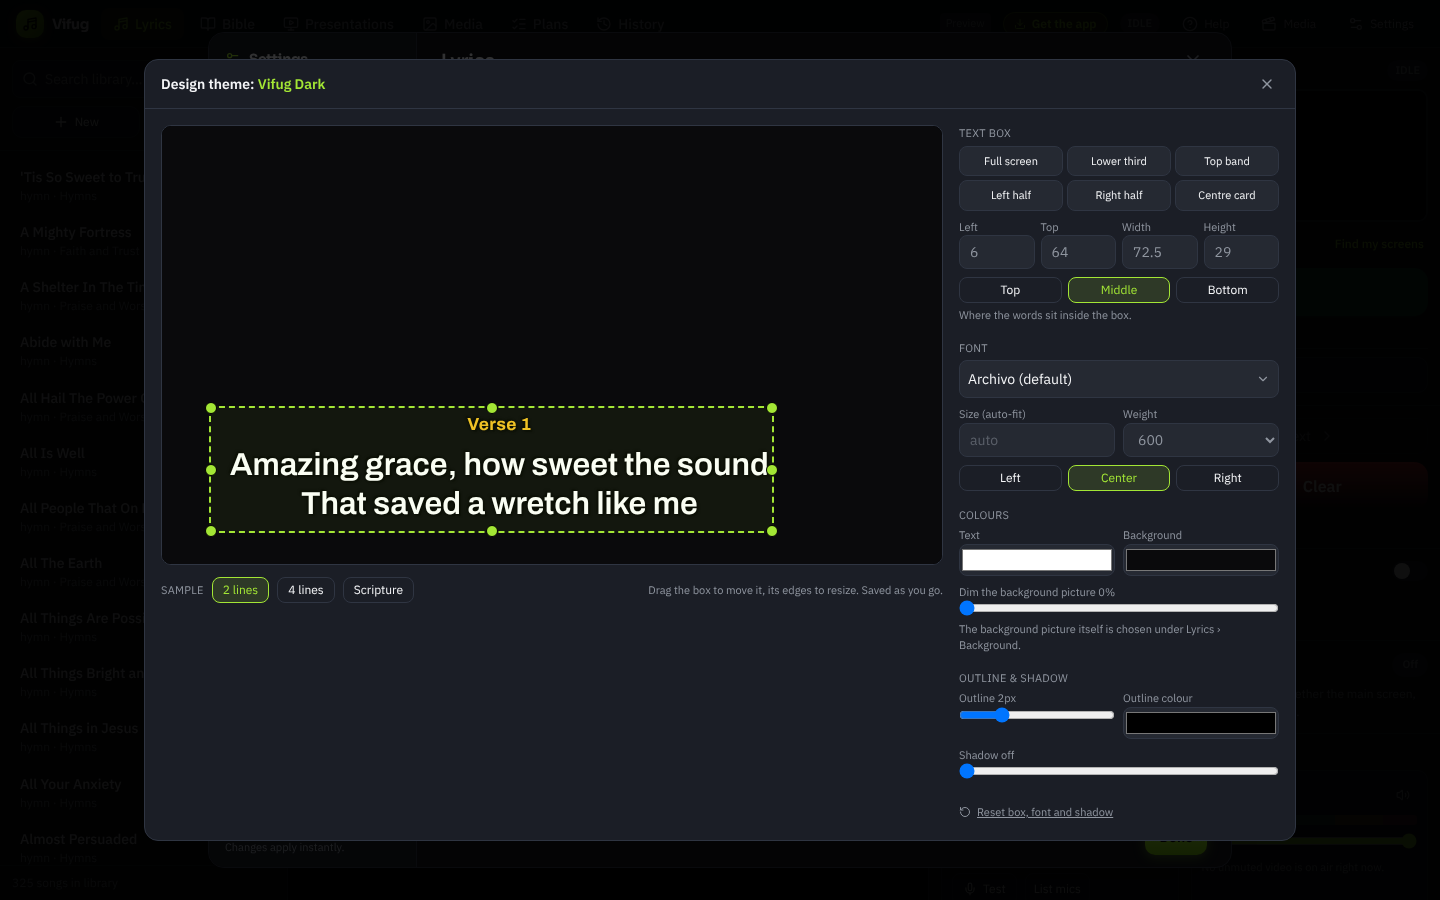
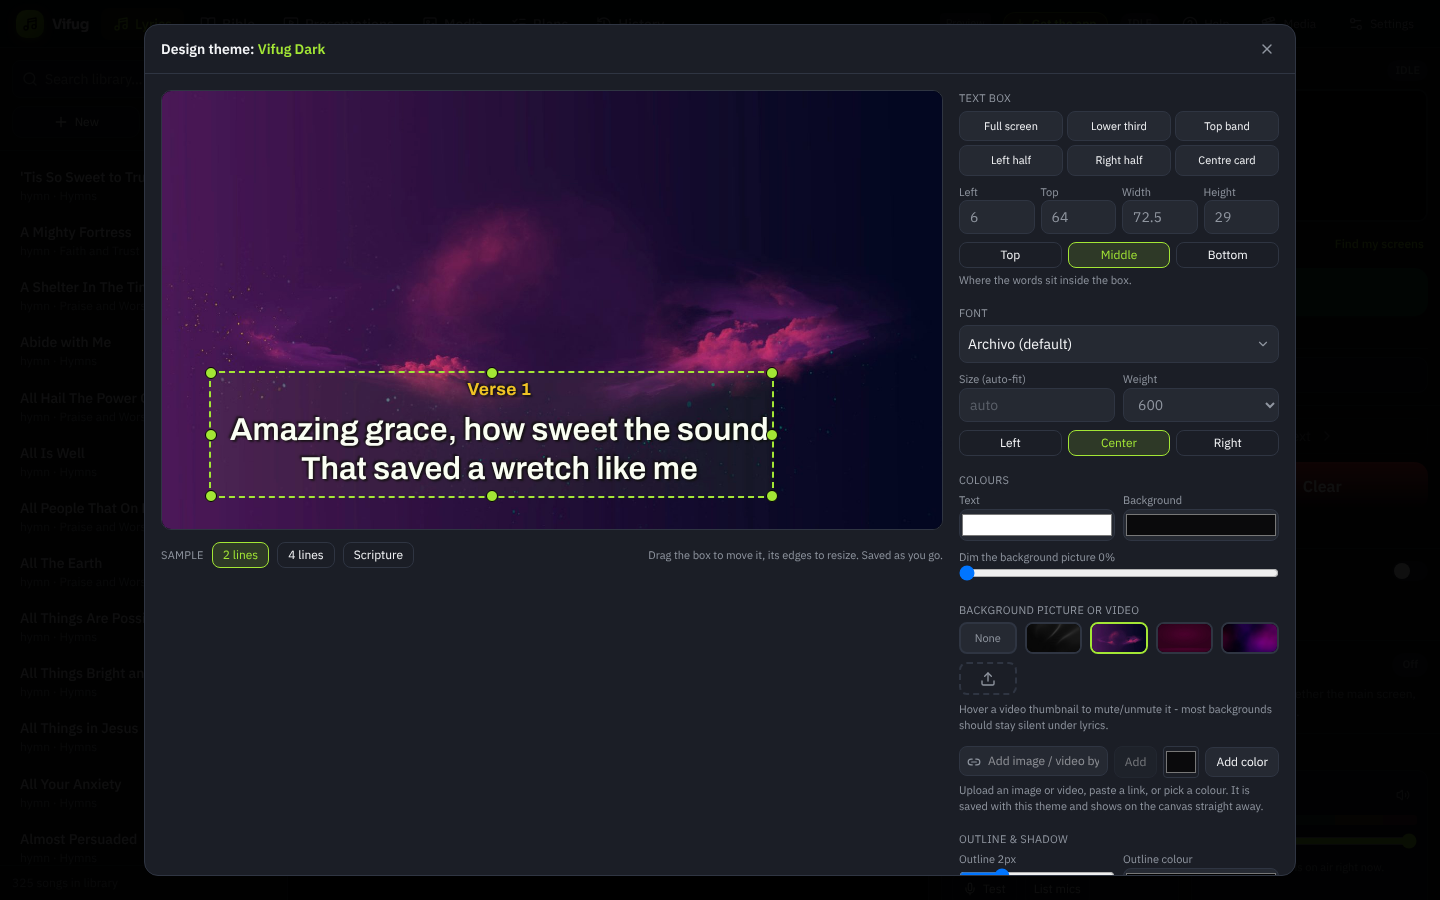
Theme designer: background picture/video picker
Claude-Session: https://claude.ai/code/session_018jfComqq59PMn7j5t4oytk

diff --git a/packages/web/src/web/components/theme-designer.tsx b/packages/web/src/web/components/theme-designer.tsx
@@ -2,6 +2,7 @@ import { useCallback, useEffect, useRef, useState } from "react";
 import { X, RotateCcw } from "lucide-react";
 import { SlideRender } from "./slide-render";
 import { FontPicker } from "./font-picker";
+import { MediaPicker } from "./media-picker";
 import { useDialog } from "../hooks/use-dialog";
 import type { Theme as ThemeRow, ThemeDraft } from "../hooks/use-songs";
 import { themeToLive, parseTextFrame, type LiveState, type LiveTheme, type TextFrame } from "../lib/live-bus";
@@ -78,10 +79,18 @@ export function ThemeDesigner({
   theme,
   patch,
   previewBackground,
+  activeBackgroundId,
+  onPickBackground,
+  mediaDefaults,
   onClose,
 }: {
   theme: ThemeRow;
   patch: (p: ThemeDraft) => void;
+  /** The picture on the live screen right now (null = none). */
+  activeBackgroundId?: string | null;
+  /** Put a picture behind the words on the screen; the theme remembers it too. */
+  onPickBackground?: (id: string | null) => void;
+  mediaDefaults?: { fit?: "cover" | "contain" | "fill"; muted?: boolean };
   /** The picture behind the words on the live screen, so the canvas matches it. */
   previewBackground?: LiveTheme["background"];
   onClose: () => void;
@@ -376,7 +385,22 @@ export function ThemeDesigner({
                 Dim the background picture {row.overlayScrim ?? 0}%
                 <input type="range" min={0} max={90} value={row.overlayScrim ?? 0} onChange={(e) => change({ overlayScrim: Number(e.target.value) })} className="w-full" />
               </label>
-              <p className="text-[11px] text-[var(--v-text-faint)]">The background picture itself is chosen under Lyrics &rsaquo; Background.</p>
+            </section>
+
+            <section>
+              <p className={label}>Background picture or video</p>
+              <MediaPicker
+                activeId={draft.backgroundId !== undefined ? draft.backgroundId : (activeBackgroundId ?? theme.backgroundId ?? null)}
+                onSelect={(id) => {
+                  change({ backgroundId: id });
+                  onPickBackground?.(id);
+                }}
+                defaultFit={mediaDefaults?.fit ?? "cover"}
+                defaultMuted={mediaDefaults?.muted ?? false}
+              />
+              <p className="mt-1 text-[11px] text-[var(--v-text-faint)]">
+                Upload an image or video, paste a link, or pick a colour. It is saved with this theme and shows on the canvas straight away.
+              </p>
             </section>
 
             <section>

diff --git a/docs/guide.html b/docs/guide.html
@@ -438,7 +438,7 @@
         <div class="mini-card">
           <div class="ic"><svg viewBox="0 0 24 24"><polygon points="12 2 15.09 8.26 22 9.27 17 14.14 18.18 21.02 12 17.77 5.82 21.02 7 14.14 2 9.27 8.91 8.26 12 2"/></svg></div>
           <h3>Theme, font & color</h3>
-          <p>Pick a base theme, then override font family, size, weight, alignment and color independently for lyrics, Bible text, and even the translation line. For a ProPresenter-style look, open <b>Settings → Lyrics → Open the visual designer</b>: the slide is shown large with a dashed box where the words sit. Drag the box to move it, drag its edges to resize it (it snaps to the middle and edges), or start from Lower third, Left half, Centre card and more. Font, colours, outline and shadow are beside it, and the slide updates as you go.</p>
+          <p>Pick a base theme, then override font family, size, weight, alignment and color independently for lyrics, Bible text, and even the translation line. For a ProPresenter-style look, open <b>Settings → Lyrics → Open the visual designer</b>: the slide is shown large with a dashed box where the words sit. Drag the box to move it, drag its edges to resize it (it snaps to the middle and edges), or start from Lower third, Left half, Centre card and more. Font, colours, outline and shadow are beside it, and the slide updates as you go. The same panel has a <b>Background picture or video</b> section: pick one from your library, upload an image or video, paste a link, or choose a plain colour, and it appears behind the words on the canvas straight away and is saved with the theme.</p>
         </div>
         <div class="mini-card">
           <div class="ic"><svg viewBox="0 0 24 24"><rect x="3" y="3" width="18" height="18" rx="2"/><circle cx="8.5" cy="8.5" r="1.5"/><path d="m21 15-5-5L5 21"/></svg></div>

diff --git a/packages/web/src/web/components/settings-page.tsx b/packages/web/src/web/components/settings-page.tsx
@@ -552,10 +552,16 @@ function ThemeEditor({
   activeId,
   onActivate,
   previewBackground,
+  activeBackgroundId,
+  onPickBackground,
+  mediaDefaults,
 }: {
   themes: ThemeRow[];
   activeId: string | null;
   onActivate: (id: string) => void;
+  activeBackgroundId?: string | null;
+  onPickBackground?: (id: string | null) => void;
+  mediaDefaults?: { fit?: "cover" | "contain" | "fill"; muted?: boolean };
   /** The picture or colour behind the words on the live screen, so the preview matches it. */
   previewBackground?: LiveTheme["background"];
 }) {
@@ -700,6 +706,9 @@ function ThemeEditor({
             theme={theme}
             patch={patch}
             previewBackground={previewBackground}
+            activeBackgroundId={activeBackgroundId}
+            onPickBackground={onPickBackground}
+            mediaDefaults={mediaDefaults}
             onClose={() => setDesigning(false)}
           />
         )}
@@ -1360,6 +1369,13 @@ function LyricsSection({
         themes={themes}
         activeId={settings?.activeThemeId ?? null}
         previewBackground={previewTheme.background}
+        activeBackgroundId={settings?.activeBackgroundId ?? null}
+        mediaDefaults={{ fit: settings?.mediaDefaults?.fit ?? "cover", muted: !(settings?.mediaDefaults?.videoSound ?? true) }}
+        // A picture chosen while designing is the theme's picture, so it goes on
+        // the screen the same way choosing the theme would put it there.
+        onPickBackground={(id) =>
+          patchSettings({ activeBackgroundId: id, bibleBackgroundId: undefined, presentationBackgroundId: undefined })
+        }
         onActivate={(id) => {
           // A theme that ships with a picture (Violet Haze, Blue Halftone ...)
           // brings it along - choosing the look and then also having to find

diff --git a/CHANGELOG.md b/CHANGELOG.md
@@ -7,7 +7,7 @@ GitHub Release with Windows, macOS and Linux artifacts.
 
 ## [1.28.0] — 2026-11-08
 
-- NEW: **a visual theme designer, like ProPresenter's.** Settings → Lyrics → Open the visual designer shows the slide large with a dashed text box on it. Drag the box to move it and its edges and corners to resize it, snapping to the middle and edges, or start from a preset (Full screen, Lower third, Top band, Left half, Right half, Centre card). Font, size, weight, alignment, where the words sit inside the box, text and background colour, background dimming, outline and drop shadow are beside it, with 2-line, 4-line and Scripture samples, and every change shows at once and is saved on the theme. A theme can now carry its own text box, font and shadow, so a lower-third look or a left-hand column is a theme like any other. The screen's own safe margin still applies on top, so a cropped projector never loses words.
+- NEW: **a visual theme designer, like ProPresenter's.** Settings → Lyrics → Open the visual designer shows the slide large with a dashed text box on it. Drag the box to move it and its edges and corners to resize it, snapping to the middle and edges, or start from a preset (Full screen, Lower third, Top band, Left half, Right half, Centre card). A **Background picture or video** section in the same panel lets you pick an image or video from your library, upload one, paste a link or choose a colour; it shows behind the words on the canvas at once, is saved with the theme and goes on the live screen. Font, size, weight, alignment, where the words sit inside the box, text and background colour, background dimming, outline and drop shadow are beside it, with 2-line, 4-line and Scripture samples, and every change shows at once and is saved on the theme. A theme can now carry its own text box, font and shadow, so a lower-third look or a left-hand column is a theme like any other. The screen's own safe margin still applies on top, so a cropped projector never loses words.
 - CHANGE: **the welcome screen is now one question per page.** Instead of everything on one crowded screen, first-run setup walks through what Vifug is for, how many lines of a song to show, and (for Church) whether to keep the included songs, with a progress indicator and Back / Next. Media & entertainment and Presentations only skip the song-library page and finish with Get started.
 - NEW: **send a phone camera (or a computer's screen) to Vifug over Wi-Fi.** In the capture picker, "Phone camera or screen cast over Wi-Fi" shows a QR code. Scan it with a phone, tap Send my camera (front or back, with or without sound), and **Phone / remote camera** becomes a capture source that works like any camera: preview it, shape it, put it over a lyric, beside scripture, or full screen. From a computer, the same page can Share this screen. The picture goes straight between the devices over WebRTC and each Vifug screen connects to the phone itself, so the projector does not depend on the operator window. Only the handshake goes through the server, and a phone camera needs a secure (https) page, so pairing uses app.vifug.com (a church running its own server can point pairing at it with the browser setting `vifug:cast-origin`). The code is remembered so the phone's link keeps working week to week, and "New code" replaces it; anyone who has the code could send a picture, so keep it to yourselves. Two public STUN servers help the devices find each other; a network that blocks direct device-to-device traffic (some guest Wi-Fi) will not connect.
 - NEW: **add your own Bible version.** Settings → Bible → Add your own Bible version imports a translation from a file: plain text with one verse a line ("John 3:16 For God so loved..."), CSV or TSV, JSON (an array of book / chapter / verse / text, or a nested book > chapter > verse object), or OSIS, USFX and Zefania XML. Book names, codes, OSIS ids and numbers are all understood, lines that cannot be read are counted and reported, and a file with only some books works (the rest are listed as missing). You name it and give it a short name, and it then appears in the Bible tab's version picker, in search, and in the AI follow's verse matching like any built-in version. Imported versions live in the browser's own storage on that computer and can be removed from the same place. This is also how a version that uses your preacher's wording can be added to improve paraphrase matching.
